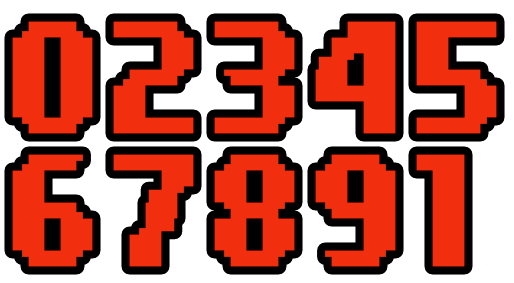
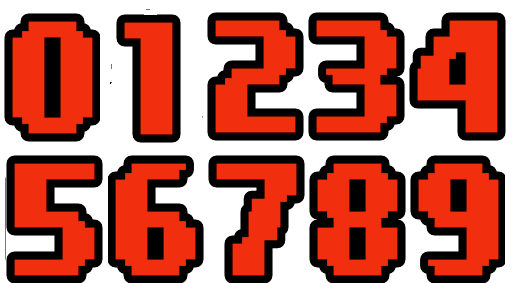
points, time and clicks

diff --git a/ForestKeeper/Game1.cs b/ForestKeeper/Game1.cs
@@ -11,17 +11,22 @@ namespace ForestKeeper
         Texture2D infectedImage;
         Texture2D trunkImage;
         Texture2D seedlingImage;
+        Texture2D numbersImage;
         Engine _engine;
         private GraphicsDeviceManager _graphics;
         private SpriteBatch _spriteBatch;
         MouseState lastMouseState;
         MouseState currentMouseState;
+
         float timer = 0;
+        int points = 0;
+        int clicks = 40;
         public Game1()
         {
             _graphics = new GraphicsDeviceManager(this);
             Content.RootDirectory = "Content";
             IsMouseVisible = true;
+
         }
 
         protected override void Initialize()
@@ -43,16 +48,20 @@ namespace ForestKeeper
             seedlingImage = Content.Load<Texture2D>("seedling");
             infectedImage = Content.Load<Texture2D>("infected tree");
             background = Content.Load<Texture2D>("backgroundInGame");
+            numbersImage = Content.Load<Texture2D>("numbers");
         }
 
         protected override void Update(GameTime gameTime)
         {
             if (GamePad.GetState(PlayerIndex.One).Buttons.Back == ButtonState.Pressed || Keyboard.GetState().IsKeyDown(Keys.Escape))
                 Exit();
+            if (Tree.AliveTrees == 0)
+                Exit(); // to be changed
             lastMouseState = currentMouseState;
             currentMouseState = Mouse.GetState();
             if (currentMouseState.LeftButton == ButtonState.Released && lastMouseState.LeftButton == ButtonState.Pressed)
             {
+                clicks -= 1;
                 if (currentMouseState.X>Constants.GameBorderLeft&&
                     currentMouseState.X<Constants.insideFenceX + Constants.GameBorderLeft&&
                     currentMouseState.Y>Constants.GameBorderTop&&
@@ -60,11 +69,21 @@ namespace ForestKeeper
                     )
                 {
                     //to be optimised by changing List of trees into an array of trees
-                    _engine.trees.ForEach(t => t.CheckClick(currentMouseState.X, currentMouseState.Y));
+                    if (clicks > 0)
+                    {
+                        _engine.trees.ForEach(t =>
+                        {
+                            if (t.CheckClick(currentMouseState.X, currentMouseState.Y))
+                            {
+                                points += 1;
+                                clicks += 2;
+                            }
+                        });
+                    }
                 }
             }
             timer += (float)gameTime.ElapsedGameTime.TotalSeconds;
-            if(timer>3)
+            if(timer>(Constants.InfectionSpeed/13)*Tree.AliveTrees+0.3)
             {
                 timer = 0;
                _engine.InfectATree();
@@ -120,7 +139,41 @@ namespace ForestKeeper
                             Color.White);
                         break;
                 }
-            }    
+            }
+            //drawing points, clicks and time
+            for(int i=0;i<4;i++)
+            {
+                _spriteBatch.Draw(numbersImage,
+                     new Rectangle(Constants.ClickPos.Item1 + Constants.NumberSize.Item1 * i,
+                     Constants.ClickPos.Item2,
+                     Constants.NumberSize.Item1, Constants.NumberSize.Item2),
+                     new Rectangle(SpriteManager.Number(clicks)[i*2], SpriteManager.Number(clicks)[i * 2 + 1], 100, 140),
+                     Color.White);
+                _spriteBatch.Draw(numbersImage,
+                     new Rectangle(Constants.PointPos.Item1 + Constants.NumberSize.Item1 * i,
+                     Constants.PointPos.Item2,
+                     Constants.NumberSize.Item1, Constants.NumberSize.Item2),
+                     new Rectangle(SpriteManager.Number(points)[i * 2], SpriteManager.Number(points)[i * 2 + 1], 100, 140),
+                    Color.White);
+                if (i < 2)
+                {
+                    _spriteBatch.Draw(numbersImage,
+                         new Rectangle(Constants.TimePos.Item1 + Constants.NumberSize.Item1 * i,
+                         Constants.TimePos.Item2,
+                         Constants.NumberSize.Item1, Constants.NumberSize.Item2),
+                         new Rectangle(SpriteManager.Time((int)gameTime.TotalGameTime.TotalSeconds)[i * 2], SpriteManager.Time((int)gameTime.TotalGameTime.TotalSeconds)[i * 2 + 1], 100, 140),
+                         Color.White);
+                }
+                else
+                {
+                    _spriteBatch.Draw(numbersImage,
+                      new Rectangle(Constants.TimePos.Item1 + Constants.NumberSize.Item1 * i + 25,
+                      Constants.TimePos.Item2,
+                      Constants.NumberSize.Item1, Constants.NumberSize.Item2),
+                      new Rectangle(SpriteManager.Time((int)gameTime.TotalGameTime.TotalSeconds)[i * 2], SpriteManager.Time((int)gameTime.TotalGameTime.TotalSeconds)[i * 2 + 1], 100, 140),
+                      Color.White);
+                }
+            }
             _spriteBatch.End();
 
             base.Draw(gameTime);

diff --git a/ForestKeeper/Tree.cs b/ForestKeeper/Tree.cs
@@ -9,11 +9,15 @@ namespace ForestKeeper
     {
         public int state; //0 - standing 1 - infected 2 - trunk 3 - seedling
         public int x, y, realX, realY;
+        public static int Trees;
+        public static int AliveTrees;
         public Tree()
         {
             state = 0;
             x = realX = 0;
             y = realY = 0;
+            Trees += 1;
+            AliveTrees += 1;
         }
         public Tree(int x, int y)
         {
@@ -30,6 +34,7 @@ namespace ForestKeeper
             if (state == 1)
             {
                 state = 2;
+                AliveTrees -= 1;
             }
         }
         public async Task Grow()
@@ -37,9 +42,13 @@ namespace ForestKeeper
             await Task.Delay(3000);
             state = 0;
         }
-        public void Heal()
+        public bool Heal()
         {
-            if (state == 1) state = 0;
+            if (state == 1) {
+                state = 0;
+                return true;
+            }
+            else return false;
         }
         public bool CheckClick(int a, int b)
         {
@@ -48,8 +57,7 @@ namespace ForestKeeper
                 (b>realY) &&
                 (b<realY+Constants.TreeHeight) )
             {
-                Heal();
-                return true;
+                return Heal();
             }
             return false;
         }

diff --git a/ForestKeeper/SpriteManager.cs b/ForestKeeper/SpriteManager.cs
@@ -1,0 +1,37 @@
+using System;
+using System.Collections.Generic;
+using System.Text;
+
+namespace ForestKeeper
+{
+    public static class SpriteManager
+    {
+        public static int[] Time(int seconds)
+        {
+            Tuple<int, int> a = spriteXY(seconds%60 % 10);
+            Tuple<int, int> b = spriteXY(seconds%60 / 10 % 10);
+            Tuple<int, int> c = spriteXY(seconds/60  % 10);
+            Tuple<int, int> d = spriteXY(seconds/60 / 10 % 10);
+            return new int[] { d.Item1, d.Item2, c.Item1, c.Item2, b.Item1, b.Item2, a.Item1, a.Item2 };
+        }
+        public static int[] Number(int num)
+        {
+            Tuple<int, int> a = spriteXY(num % 10);
+            Tuple<int, int> b = spriteXY(num / 10 % 10);
+            Tuple<int, int> c = spriteXY(num / 100 % 10);
+            Tuple<int, int> d = spriteXY(num / 1000 % 10);
+            return new int[] { d.Item1, d.Item2, c.Item1, c.Item2, b.Item1, b.Item2, a.Item1, a.Item2 };
+        }
+        private static Tuple<int,int> spriteXY(int a)
+        {
+            if(a<5)
+            {
+                return new Tuple<int,int>(a % 5 * 102,0);
+            }
+            else
+            {
+                return new Tuple<int, int>(a % 5 * 102, 142);
+            }
+        }
+    }
+}

diff --git a/ForestKeeper/Constants.cs b/ForestKeeper/Constants.cs
@@ -23,6 +23,14 @@ namespace ForestKeeper
         public static int TreeIntervalX = insideFenceX/TreesHorizontally; //distance between trees horizontally
         public static int NumberOfStartingTrees = 13;
 
-        public static int InfectionSpeed = 1;
+        public static float InfectionSpeed = 1.5f;
+
+        public static Tuple<int, int> ClickPos = new Tuple<int, int>(170, 35);
+        public static Tuple<int, int> PointPos = new Tuple<int, int>(650, 35);
+        public static Tuple<int, int> TimePos = new Tuple<int, int>(1620, 35);
+
+        public static Tuple<int, int> NumberSize = new Tuple<int, int>(45, 90);
+
+
     }
 }

diff --git a/ForestKeeper/Engine.cs b/ForestKeeper/Engine.cs
@@ -27,6 +27,8 @@ namespace ForestKeeper
                     i++;
                 }
             }
+            Tree.AliveTrees = Constants.NumberOfStartingTrees;
+            Tree.Trees = Constants.NumberOfStartingTrees;
             ///</summary>
         }
         private Tuple<int,int> GenerateRandom() //picks a random tree from an array
